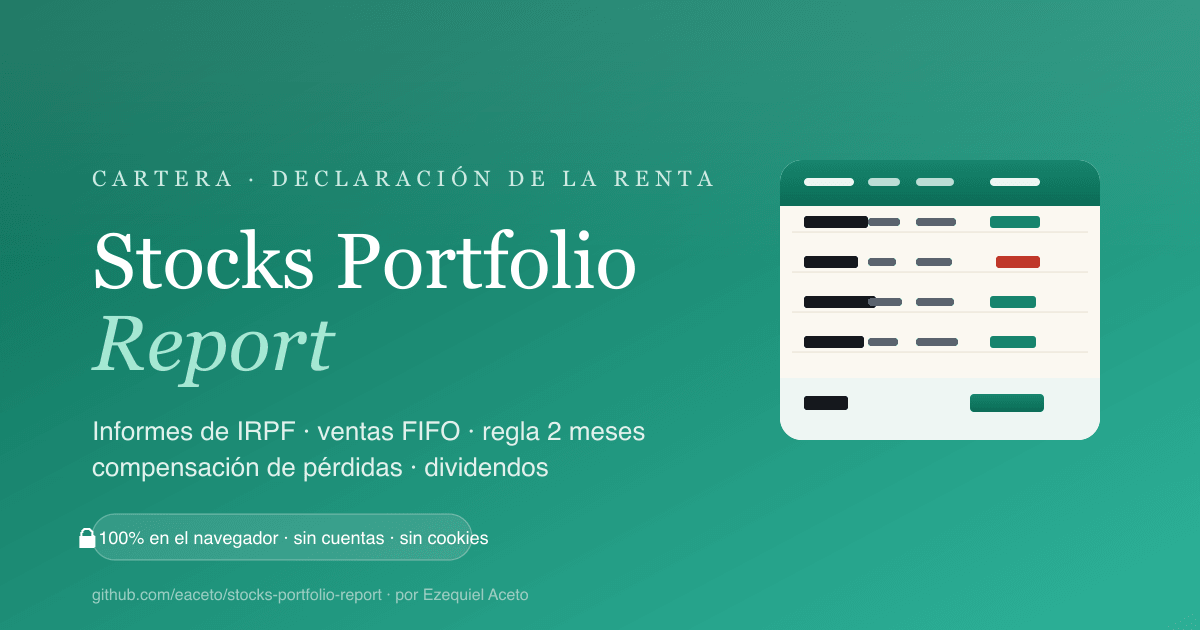
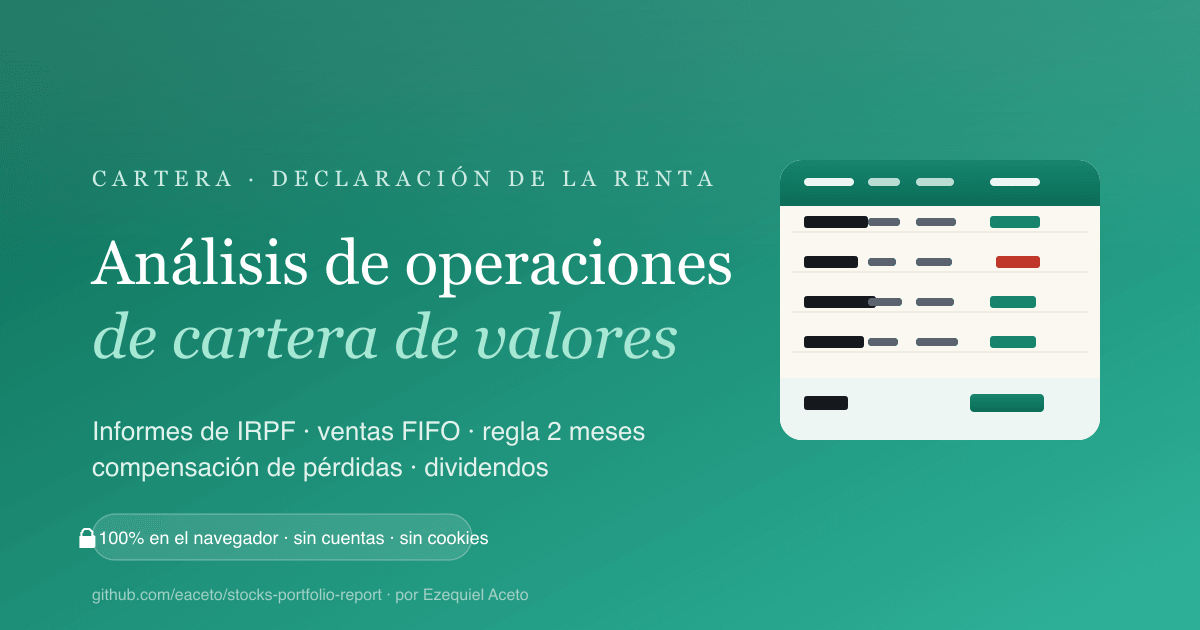
Rename + fixes on Modal

Changed region(s): [[0.0617, 0.3619, 0.6167, 0.6333]]

diff --git a/apps/web/src/app/layout.tsx b/apps/web/src/app/layout.tsx
@@ -35,7 +35,9 @@ const SITE_URL =
   process.env.NEXT_PUBLIC_SITE_URL ??
   (process.env.VERCEL_URL ? `https://${process.env.VERCEL_URL}` : "https://stocks-portfolio-spain.vercel.app");
 
-const SHARED_TITLE = "Stocks Portfolio Report · Informes de IRPF";
+const APP_NAME = "Análisis de operaciones de cartera de valores";
+const APP_NAME_SHORT = "Análisis de cartera";
+const SHARED_TITLE = `${APP_NAME} · IRPF`;
 const SHARED_DESCRIPTION =
   "Genera los informes de IRPF (ventas con FIFO, dividendos, gastos y posiciones) a partir de un extracto de operaciones. Todo el cálculo ocurre en tu navegador: sin cuentas, sin cookies, sin historial.";
 
@@ -43,11 +45,11 @@ export const metadata: Metadata = {
   metadataBase: new URL(SITE_URL),
   title: {
     default: SHARED_TITLE,
-    template: "%s · Stocks Portfolio Report",
+    template: `%s · ${APP_NAME}`,
   },
   description: SHARED_DESCRIPTION,
   manifest: "/manifest.webmanifest",
-  applicationName: "Stocks Portfolio Report",
+  applicationName: APP_NAME,
   authors: [{ name: "Ezequiel Aceto", url: "https://linkedin.com/in/ezequielaceto" }],
   creator: "Ezequiel Aceto",
   publisher: "Ezequiel Aceto",
@@ -61,13 +63,13 @@ export const metadata: Metadata = {
     "dividendos",
     "PWA",
   ],
-  appleWebApp: { capable: true, statusBarStyle: "default", title: "Stocks Portfolio Report" },
+  appleWebApp: { capable: true, statusBarStyle: "default", title: APP_NAME_SHORT },
   alternates: { canonical: "/" },
   openGraph: {
     type: "website",
     locale: "es_ES",
     url: "/",
-    siteName: "Stocks Portfolio Report",
+    siteName: APP_NAME,
     title: SHARED_TITLE,
     description: SHARED_DESCRIPTION,
     images: [
@@ -75,7 +77,7 @@ export const metadata: Metadata = {
         url: "/og.png",
         width: 1200,
         height: 630,
-        alt: "Stocks Portfolio Report — Informes de IRPF de tu cartera",
+        alt: `${APP_NAME} — Informes de IRPF de tu cartera`,
         type: "image/png",
       },
     ],

diff --git a/apps/web/src/app/privacy/page.tsx b/apps/web/src/app/privacy/page.tsx
@@ -4,19 +4,19 @@ import Link from "next/link";
 export const metadata: Metadata = {
   title: "Privacidad y aviso legal",
   description:
-    "Política de privacidad y aviso legal de Stocks Portfolio Report. Aplicación 100% local: sin servidor, sin cuentas, sin cookies, sin seguimiento.",
+    "Política de privacidad y aviso legal del análisis de operaciones de cartera de valores. Aplicación 100% local: sin servidor, sin cuentas, sin cookies, sin seguimiento.",
   alternates: { canonical: "/privacy" },
   openGraph: {
     type: "article",
     url: "/privacy",
-    title: "Privacidad y aviso legal · Stocks Portfolio Report",
+    title: "Privacidad y aviso legal · Análisis de operaciones de cartera de valores",
     description:
       "Política de privacidad y aviso legal: 100% local, sin servidor, sin asesoramiento fiscal vinculante, sin vínculo con la AEAT.",
     images: ["/og.png"],
   },
   twitter: {
     card: "summary_large_image",
-    title: "Privacidad y aviso legal · Stocks Portfolio Report",
+    title: "Privacidad y aviso legal · Análisis de operaciones de cartera de valores",
     description:
       "Política de privacidad y aviso legal: 100% local, sin servidor, sin asesoramiento fiscal vinculante.",
     images: ["/og.png"],
@@ -40,7 +40,7 @@ export default function PrivacyPage() {
       <section className="legal-section">
         <h2>1 · Privacidad — 100 % en tu navegador</h2>
         <p>
-          <strong>Stocks Portfolio Report no envía nada a ningún servidor.</strong> El archivo que
+          <strong>Esta aplicación no envía nada a ningún servidor.</strong> El archivo que
           subes se lee y procesa <em>localmente</em> en el navegador (en un Web Worker, con
           <em> fallback</em> al hilo principal). La aplicación se distribuye como un export
           estático: no hay backend capaz de recibir, almacenar o reenviar tus datos.

diff --git a/apps/web/src/app/globals.css b/apps/web/src/app/globals.css
@@ -1260,14 +1260,19 @@ tr.total td {
   position: fixed;
   inset: 0;
   z-index: 100;
-  display: grid;
-  place-items: center;
-  padding: 20px;
+  display: flex;
+  justify-content: center;
+  /* `safe start` keeps the card top-aligned when it overflows the viewport
+     (mobile / small screens). On taller viewports the padding gives breathing
+     room so it looks vertically centered enough. */
+  align-items: safe flex-start;
+  padding: max(20px, 5vh) 20px 24px;
   background: rgba(13, 17, 23, 0.55);
   backdrop-filter: blur(6px);
   -webkit-backdrop-filter: blur(6px);
   animation: welcome-fade 0.25s ease-out;
   overflow-y: auto;
+  -webkit-overflow-scrolling: touch;
 }
 @keyframes welcome-fade {
   from { opacity: 0; }
@@ -1285,8 +1290,8 @@ tr.total td {
   padding: 32px 36px 28px;
   position: relative;
   animation: welcome-rise 0.3s cubic-bezier(0.16, 1, 0.3, 1);
-  max-height: 92vh;
-  overflow-y: auto;
+  /* No internal max-height/overflow — the overlay handles scroll so the
+     title is always reachable by scrolling up. */
 }
 @keyframes welcome-rise {
   from { transform: translateY(10px); opacity: 0; }

diff --git a/apps/web/src/components/WelcomeModal.tsx b/apps/web/src/components/WelcomeModal.tsx
@@ -68,7 +68,7 @@ export function WelcomeModal() {
         <div className="welcome-head">
           <div className="welcome-kicker">Bienvenido</div>
           <h2 id="welcome-title" className="welcome-title display">
-            Stocks Portfolio <em>Report</em>
+            Análisis de operaciones de <em>cartera de valores</em>
           </h2>
         </div>
 

diff --git a/README.md b/README.md
@@ -1,4 +1,4 @@
-# Stocks Portfolio Report · Informes de IRPF de cartera
+# Análisis de operaciones de cartera de valores · Informes de IRPF
 
 [![CI](https://github.com/eaceto/stocks-portfolio-report/actions/workflows/ci.yml/badge.svg)](https://github.com/eaceto/stocks-portfolio-report/actions/workflows/ci.yml)
 [![License: MIT](https://img.shields.io/badge/license-MIT-11876c.svg)](./LICENSE)
@@ -11,7 +11,7 @@
 
 Aplicación web (PWA) que genera los informes necesarios para la **declaración de IRPF** a partir de un extracto de operaciones de una cartera de valores. Para **cada año** del archivo y **cada cuenta** calcula ventas con **FIFO** (ganancia/pérdida), dividendos, gastos de custodia y posiciones a la fecha, con la trazabilidad completa de cada venta (primera y última fecha de adquisición, nº de lotes consumidos), aplica la **regla de los 2 meses** (art. 33.5.f) y la **compensación de pérdidas entre ejercicios** (art. 49, hasta 4 años).
 
-![Stocks Portfolio Report — vista del informe](docs/screenshot_tests.png)
+![Análisis de operaciones de cartera de valores — vista del informe](docs/screenshot_tests.png)
 
 - 📄 Lógica de cálculo detallada: [`docs/LOGICA_DE_NEGOCIO.md`](./docs/LOGICA_DE_NEGOCIO.md)
 - 🔐 Política de seguridad: [`SECURITY.md`](./SECURITY.md)
